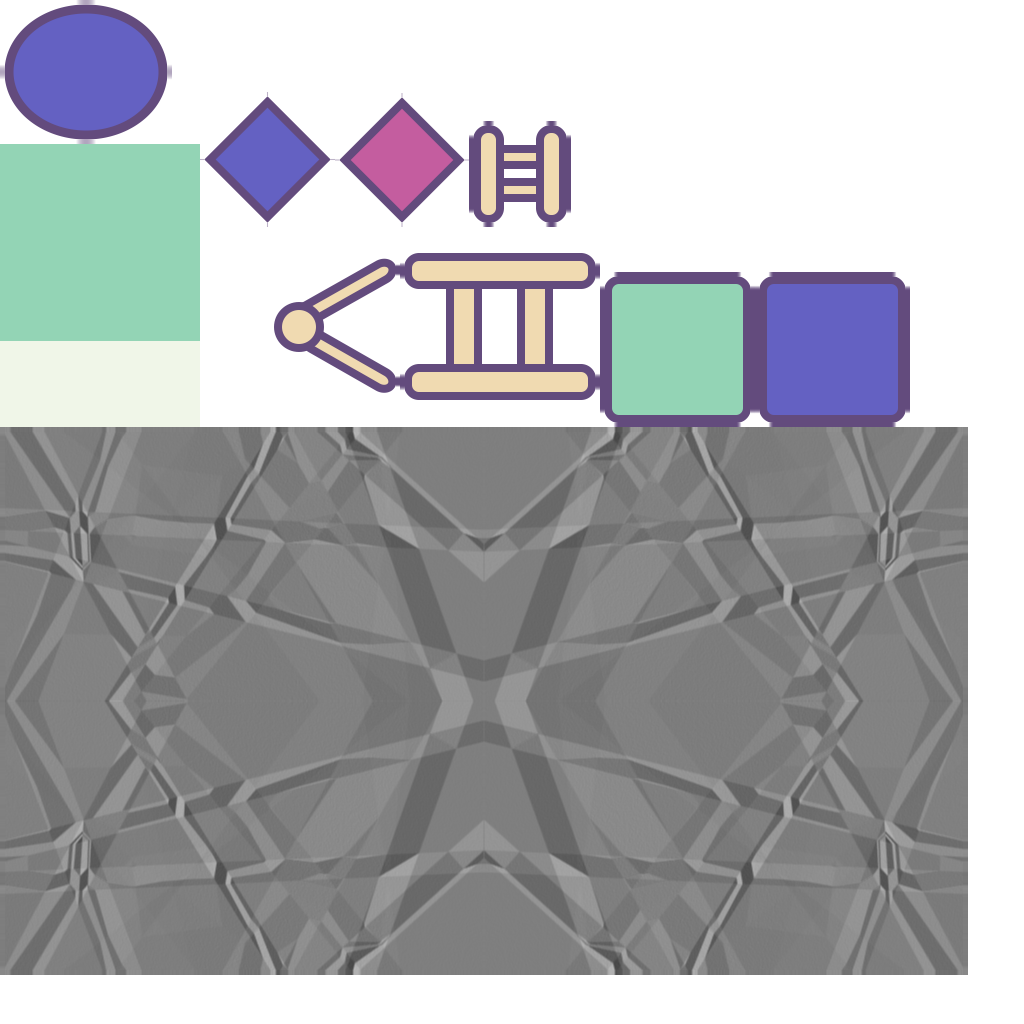
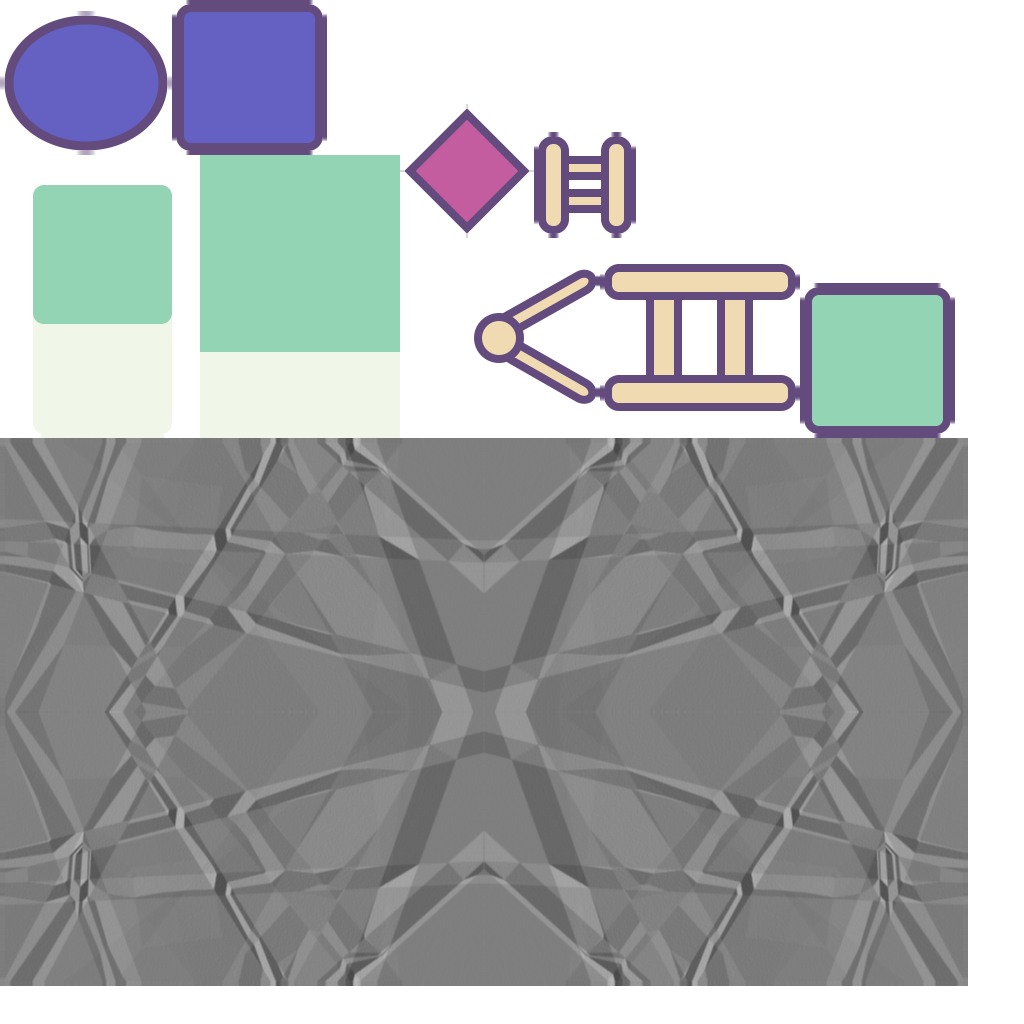
better stone

diff --git a/core/src/main/java/com/distraction/cjspring26/entity/TileEntity.java b/core/src/main/java/com/distraction/cjspring26/entity/TileEntity.java
@@ -1,5 +1,6 @@
 package com.distraction.cjspring26.entity;
 
+import com.badlogic.gdx.math.MathUtils;
 import com.distraction.cjspring26.tile.TileMap;
 
 public abstract class TileEntity extends Entity {
@@ -7,6 +8,10 @@ public abstract class TileEntity extends Entity {
     protected TileMap tileMap;
     public int row, col;
     protected boolean on = true;
+    protected float toggleTime;
+    protected float yoffset;
+    protected final float totalToggleTime = 0.2f;
+    protected final float maxyoffset = 200;
 
     protected TileEntity(TileMap tileMap) {
         this.tileMap = tileMap;
@@ -14,10 +19,17 @@ public abstract class TileEntity extends Entity {
 
     public void toggle() {
         on = !on;
+        toggleTime = totalToggleTime;
     }
 
-    protected int getYOffset() {
-        return on ? 0 : -120;
+    @Override
+    public void update(float dt) {
+        super.update(dt);
+        toggleTime -= dt;
+        if (toggleTime < 0) toggleTime = 0;
+
+        if (on) yoffset = MathUtils.map(totalToggleTime, 0, -200, 0, toggleTime);
+        else yoffset = MathUtils.map(totalToggleTime, 0, 0, -200, toggleTime);
     }
 
     protected void setTile(int row, int col) {

diff --git a/core/src/main/java/com/distraction/cjspring26/tile/TileMap.java b/core/src/main/java/com/distraction/cjspring26/tile/TileMap.java
@@ -175,9 +175,9 @@ public class TileMap {
     }
 
     public void update(float dt) {
-        for (Collectible collectible : collectibles) {
-            collectible.update(dt);
-        }
+        for (Stone s : stones) s.update(dt);
+        for (Anchor a : anchors) a.update(dt);
+        for (Collectible collectible : collectibles) collectible.update(dt);
     }
 
     public void render(SpriteBatch sb) {
@@ -196,11 +196,11 @@ public class TileMap {
         for (Collectible collectible : collectibles) {
             collectible.render(sb);
         }
-        for (int row = map.length - 1; row >= 0; row--) {
-            for (int col = 0; col < map[row].length; col++) {
-                map[row][col].renderFont(sb);
-            }
-        }
+//        for (int row = map.length - 1; row >= 0; row--) {
+//            for (int col = 0; col < map[row].length; col++) {
+//                map[row][col].renderFont(sb);
+//            }
+//        }
     }
 
 }

diff --git a/core/src/main/java/com/distraction/cjspring26/tile/MapData.java b/core/src/main/java/com/distraction/cjspring26/tile/MapData.java
@@ -12,7 +12,7 @@ public class MapData {
         {0, 0, 1, 1, 0, 0, 0, 0, 0, 0, 0, 0, 0, 1, 1, 1, 0, 0, 0, 0, 0, 0, 0, 0, 0, 0, 0, 0, 0, 0},
         {0, 0, 1, 1, 0, 0, 4, 0, 1, 1, 0, 0, 0, 1, 1, 1, 1, 0, 0, 0, 0, 0, 0, 0, 0, 0, 0, 0, 0, 0},
         {0, 0, 1, 1, 1, 0, 0, 0, 1, 1, 1, 0, 1, 1, 1, 1, 1, 0, 0, 0, 0, 0, 0, 0, 0, 0, 0, 0, 0, 0},
-        {0, 0, 0, 1, 1, 1, 2, 1, 1, 1, 0, 0, 1, 1, 1, 1, 1, 0, 0, 0, 0, 0, 0, 0, 0, 0, 0, 0, 0, 0},
+        {0, 0, 0, 1, 1, 1, 1, 2, 1, 1, 0, 0, 1, 1, 1, 1, 1, 0, 0, 0, 0, 0, 0, 0, 0, 0, 0, 0, 0, 0},
         {0, 0, 0, 0, 0, 0, 0, 0, 0, 0, 0, 0, 0, 1, 1, 1, 0, 0, 0, 0, 0, 0, 0, 0, 0, 0, 0, 0, 0, 0},
         {0, 0, 0, 0, 0, 0, 0, 0, 0, 0, 0, 0, 0, 1, 1, 0, 0, 0, 0, 0, 0, 0, 0, 0, 0, 0, 0, 0, 0, 0},
     };

diff --git a/core/src/main/java/com/distraction/cjspring26/entity/Anchor.java b/core/src/main/java/com/distraction/cjspring26/entity/Anchor.java
@@ -34,8 +34,7 @@ public class Anchor extends TileEntity {
 
     @Override
     public void render(SpriteBatch sb) {
-        int yoffset = getYOffset();
-        if (!on) sb.setColor(Constants.BLUE);
+        if (!on) sb.setColor(Constants.DARK_PURPLE);
         Utils.drawCentered(sb, image, x, y + yoffset, direction.deg);
         if (direction == Direction.UP) Utils.drawCentered(sb, ladderImage, x, tileMap.coord(row + 1) + yoffset, direction.deg);
         else if (direction == Direction.DOWN) Utils.drawCentered(sb, ladderImage, x, tileMap.coord(row - 1) + yoffset, direction.deg);

diff --git a/core/src/main/java/com/distraction/cjspring26/entity/Stone.java b/core/src/main/java/com/distraction/cjspring26/entity/Stone.java
@@ -18,10 +18,9 @@ public class Stone extends TileEntity {
 
     @Override
     public void render(SpriteBatch sb) {
-        int yoffset = getYOffset();
         sb.setColor(Color.WHITE);
-        if (!on) sb.setColor(Constants.BLUE);
-        Utils.drawCentered(sb, image, x, y + yoffset);
+        if (!on) sb.setColor(Constants.DARK_PURPLE);
+        Utils.drawCentered(sb, image, x, y + yoffset - 42);
         sb.setColor(Color.WHITE);
     }
 }

diff --git a/core/src/main/java/com/distraction/cjspring26/entity/Inventory.java b/core/src/main/java/com/distraction/cjspring26/entity/Inventory.java
@@ -42,6 +42,7 @@ public class Inventory extends Entity {
         if (selectedIndex < 0) return;
         if (inv[selectedIndex]) {
             inv[selectedIndex] = false;
+            selectedIndex = -1;
             for (int i = 0; i < inv.length; i++) {
                 if (inv[i]) {
                     selectedIndex = i;
